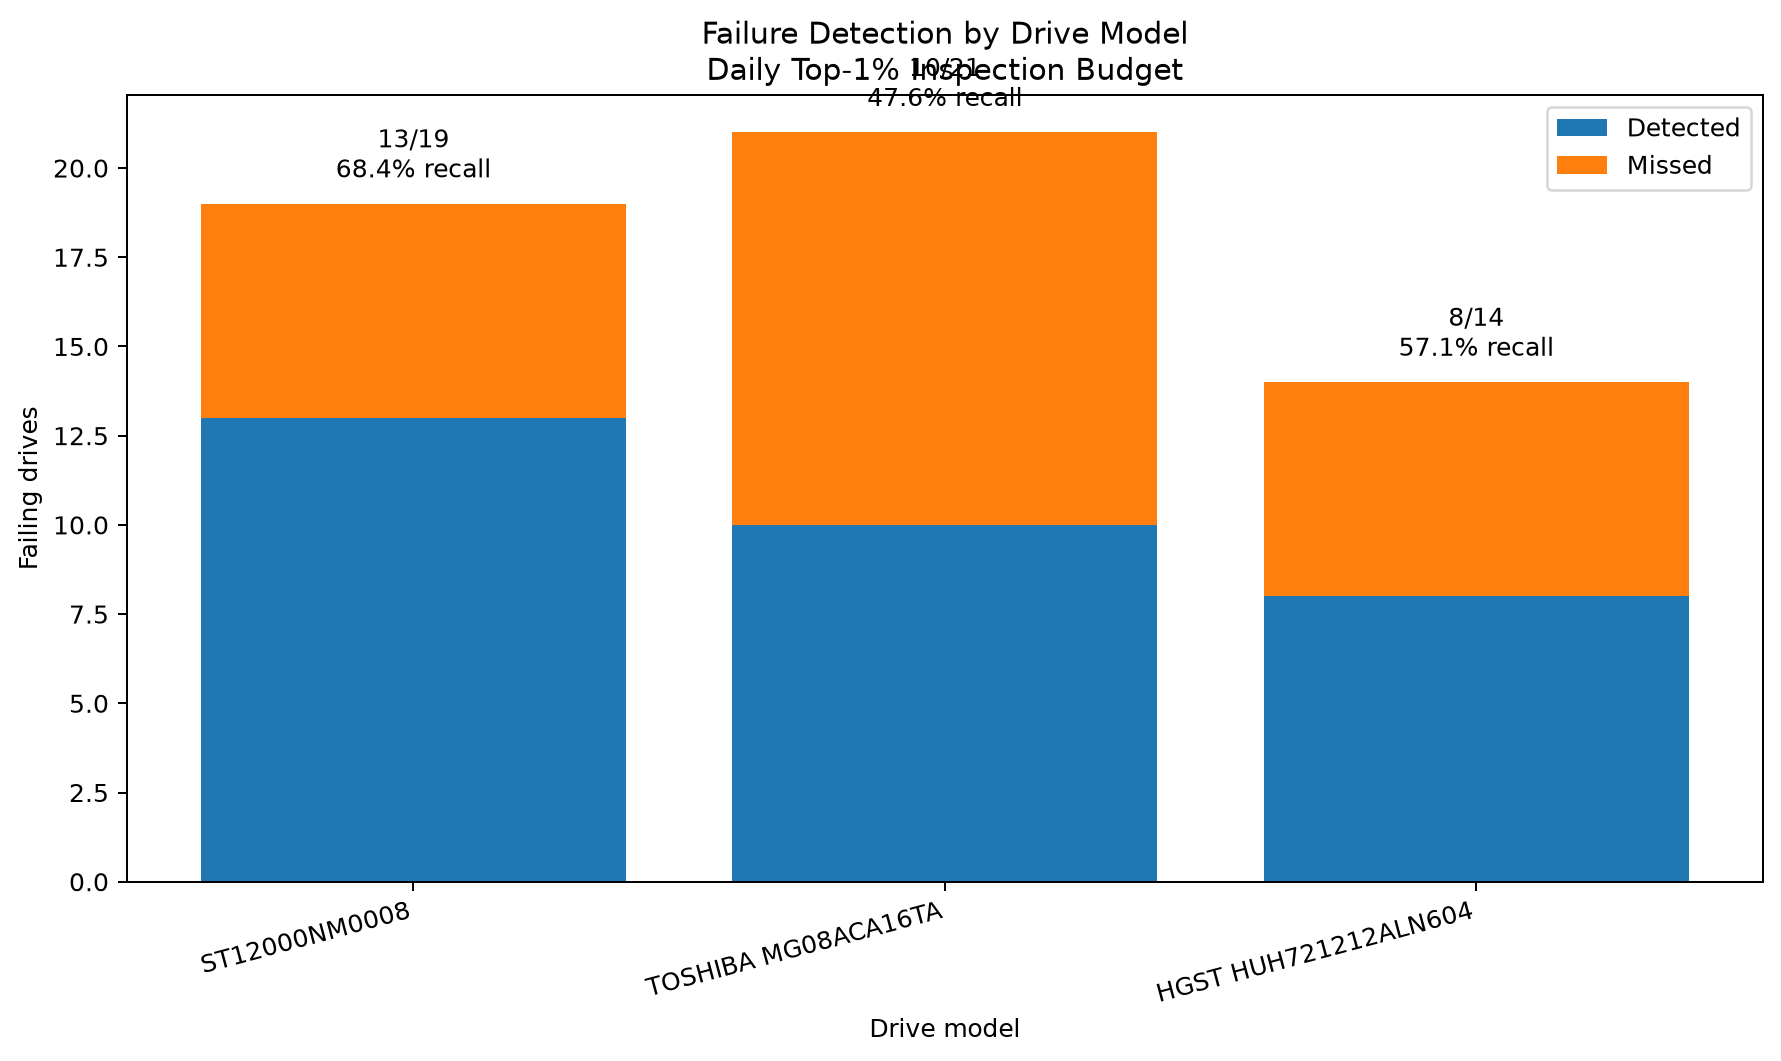
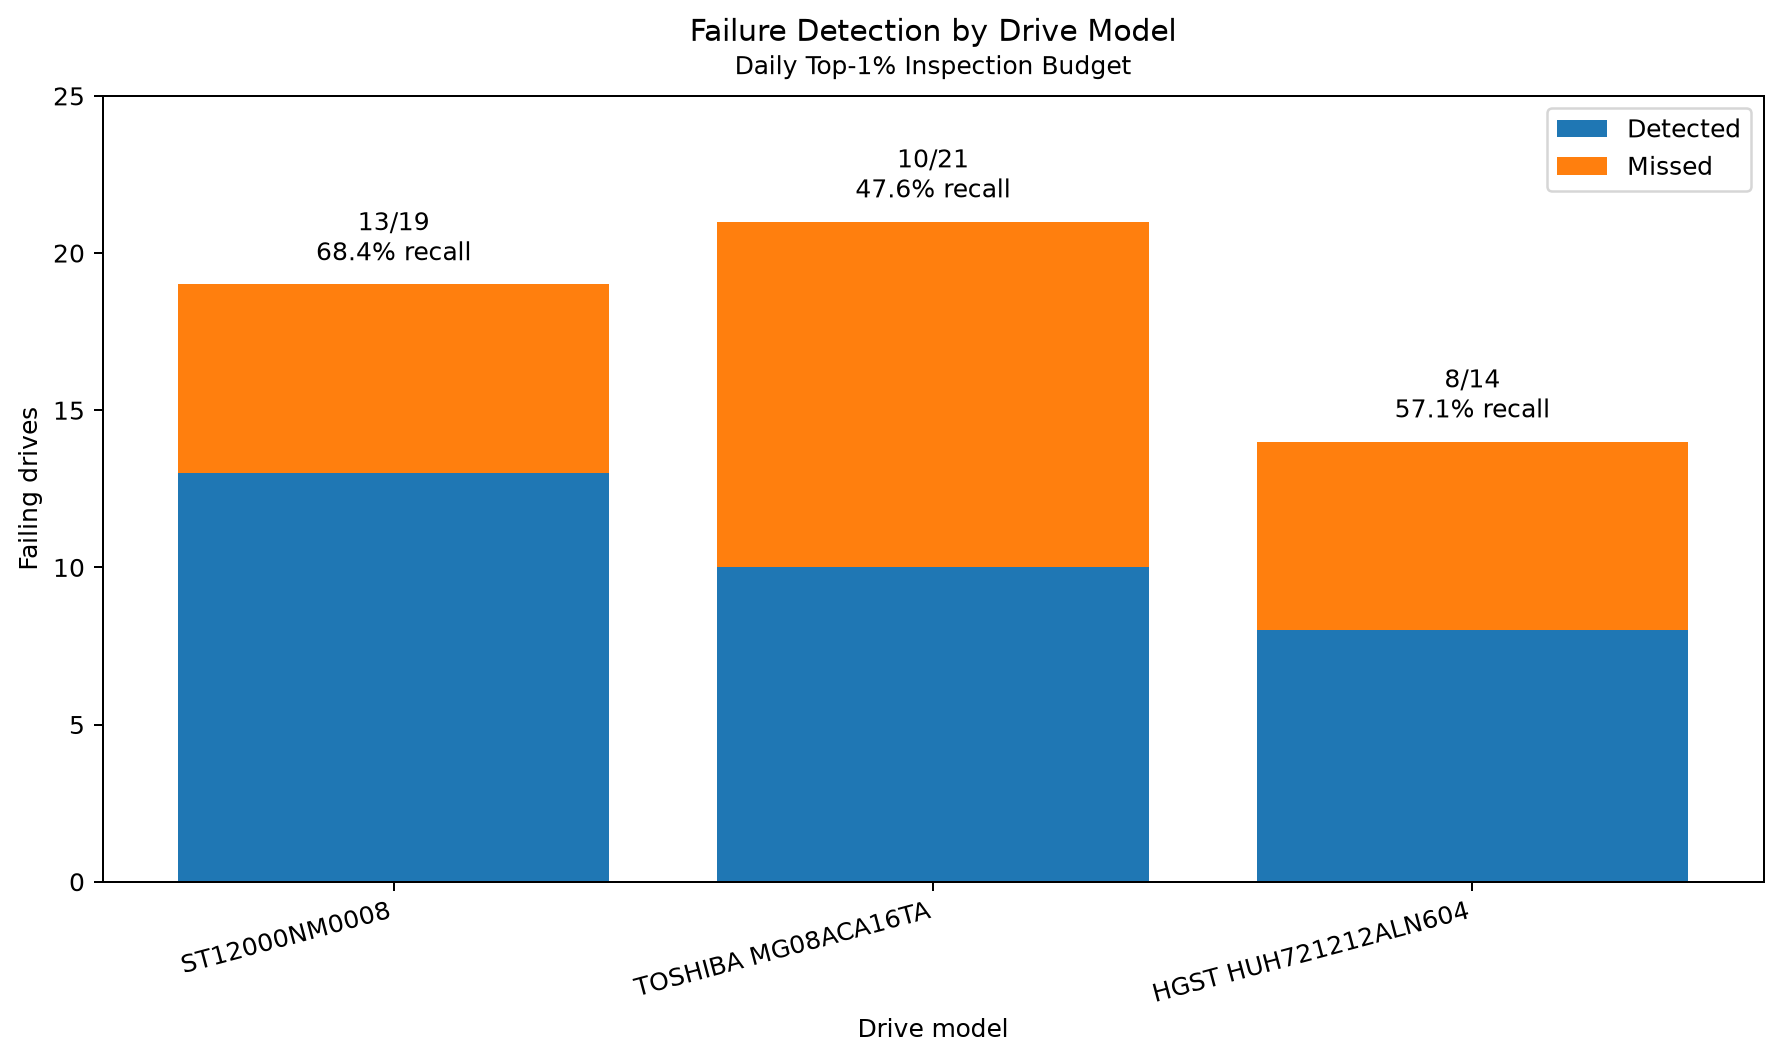
Fix model detection chart spacing

diff --git a/src/evaluation/plot_operational_results.py b/src/evaluation/plot_operational_results.py
@@ -44,10 +44,29 @@ def plot_detection_by_model() -> None:
             va="bottom",
         )
 
-    ax.set_title("Failure Detection by Drive Model\nDaily Top-1% Inspection Budget")
+    ax.set_title(
+        "Failure Detection by Drive Model",
+        pad=22,
+    )
+
+    ax.text(
+        0.5,
+        1.02,
+        "Daily Top-1% Inspection Budget",
+        transform=ax.transAxes,
+        ha="center",
+        va="bottom",
+        fontsize=10,
+    )
+
     ax.set_xlabel("Drive model")
     ax.set_ylabel("Failing drives")
     ax.legend()
+
+    ax.set_ylim(
+        0,
+        data["positive_drives"].max() + 4,
+    )
 
     plt.xticks(rotation=15, ha="right")
     plt.tight_layout()
